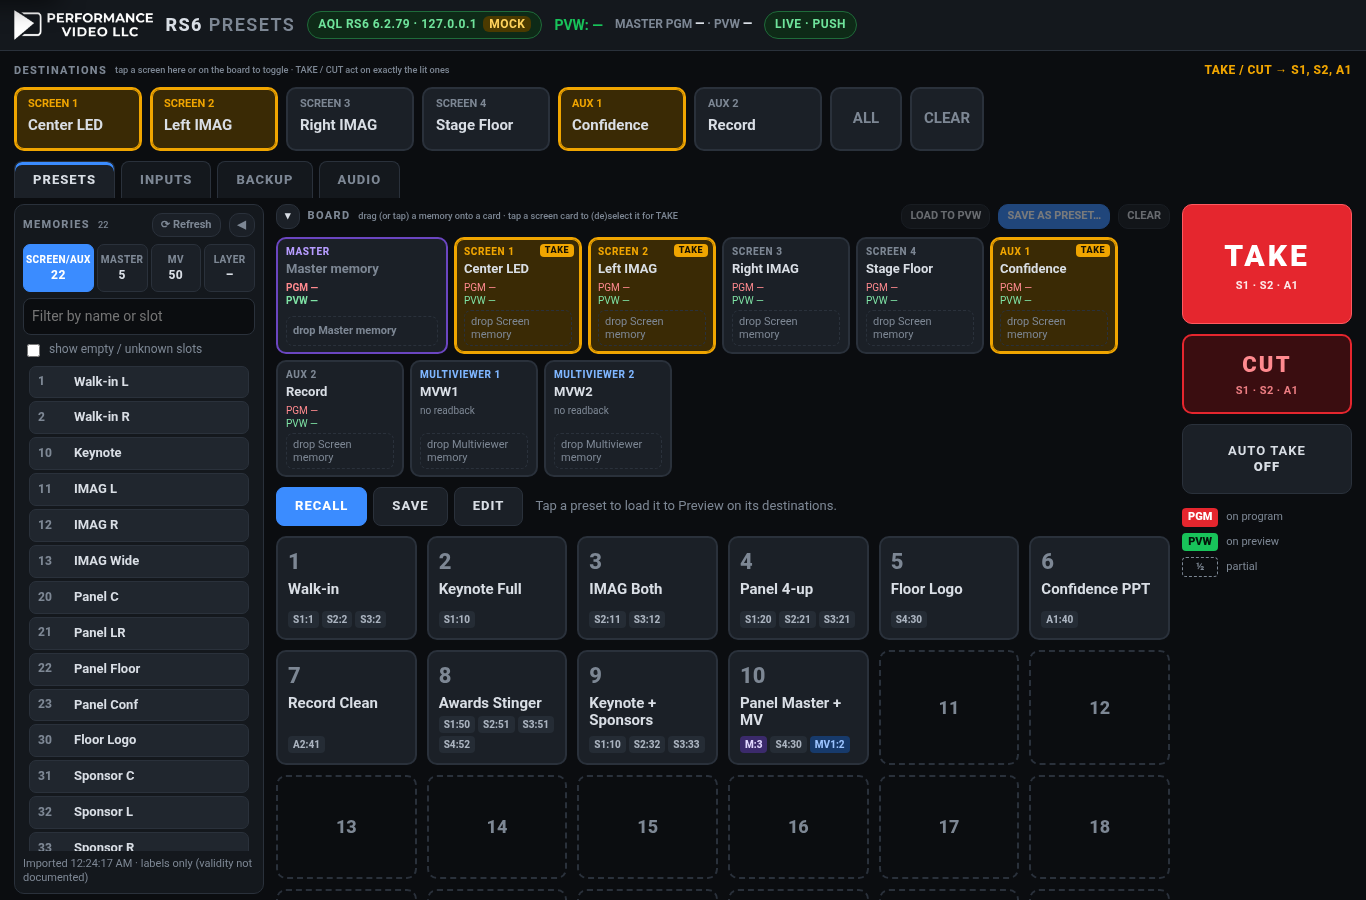
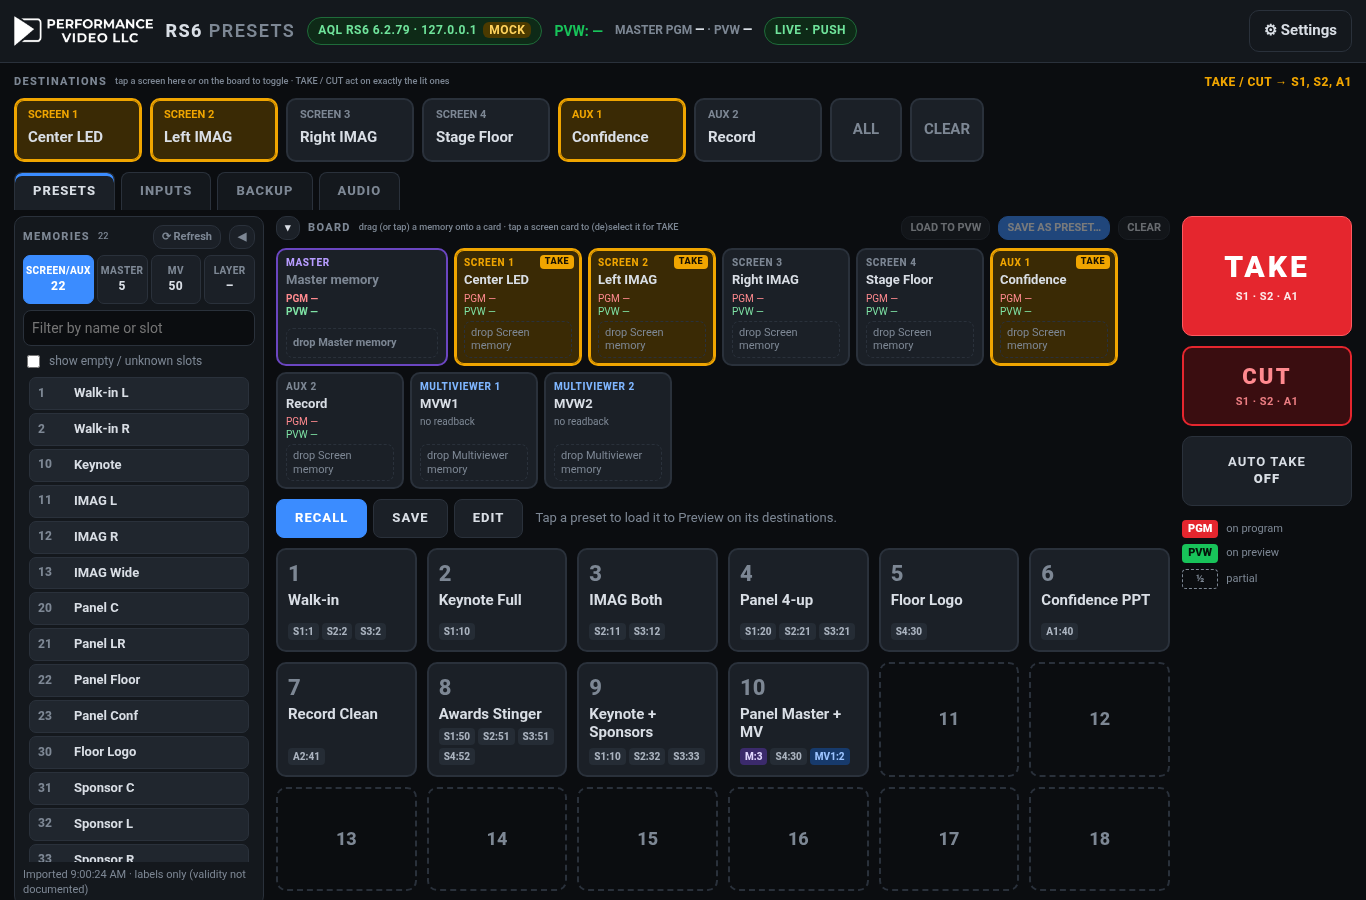
v0.3.2: Settings button visible again (drag-preview .ghost rule hid every 'btn ghost' button), header keeps Settings on row 1, UI regression test

diff --git a/test/ui.test.js b/test/ui.test.js
@@ -1,0 +1,86 @@
+'use strict';
+// 0.3.2 regression: "there is no Settings icon". In 0.3.0/0.3.1 the drag-preview rule `.ghost{position:fixed;
+// transform:translate(-50%,-130%);pointer-events:none}` also matched every `btn ghost` button (the header
+// Settings button and the dialogs' Cancel/Close), which put them off-screen above the top-left corner.
+const test = require('node:test');
+const assert = require('node:assert/strict');
+const fs = require('fs');
+const os = require('os');
+const path = require('path');
+const http = require('http');
+const { spawn } = require('child_process');
+
+const PUB = path.join(__dirname, '..', 'public');
+const css = fs.readFileSync(path.join(PUB, 'style.css'), 'utf8').replace(/\/\*[\s\S]*?\*\//g, '');
+const html = fs.readFileSync(path.join(PUB, 'index.html'), 'utf8');
+
+function rules(src) { // flat rules incl. those inside @media
+  const out = []; const re = /([^{}]+)\{([^{}]*)\}/g; let m;
+  while ((m = re.exec(src))) out.push({ sel: m[1].replace(/@media[^{]*\{?/g, '').trim(), body: m[2] });
+  return out;
+}
+
+test('no position:fixed rule can match a <button> by one of its classes (static check)', () => {
+  const btnClasses = new Set();
+  for (const m of html.matchAll(/<button\b[^>]*class="([^"]*)"/g)) m[1].split(/\s+/).forEach((c) => c && btnClasses.add(c));
+  assert.ok(btnClasses.has('ghost'), 'fixture: buttons use the ghost class');
+  for (const r of rules(css)) {
+    if (!/position\s*:\s*fixed/.test(r.body)) continue;
+    for (const sel of r.sel.split(',')) {
+      const last = sel.trim().split(/[\s>+~]+/).pop(); // the compound selector that picks the element
+      if (/^(button|\*)?\./.test(last) && !/^[a-z]/i.test(last.replace(/^button/, ''))) {
+        const classes = [...last.matchAll(/\.([\w-]+)/g)].map((x) => x[1]);
+        if (/^button/.test(last) || classes.length) {
+          const hitsButton = classes.every((c) => btnClasses.has(c)) && !/[#\[:]/.test(last);
+          assert.ok(!hitsButton, `rule "${sel.trim()}" (position:fixed) would match a <button class="${classes.join(' ')}">`);
+        }
+      }
+    }
+  }
+});
+
+test('Settings button markup and /settings deep link are present', () => {
+  assert.match(html, /<header class="top">[\s\S]*<button id="btnSettings"[^>]*>[^<]*Settings<\/button>[\s\S]*<\/header>/);
+  const app = fs.readFileSync(path.join(PUB, 'app.js'), 'utf8');
+  assert.match(app, /location\.pathname === '\/settings'/);
+});
+
+// Browser check. Uses Playwright when it can be resolved (npm i -g playwright, or NODE_PATH); skipped otherwise,
+// because the app itself has no dependencies.
+let pw = null;
+try { pw = require('playwright'); } catch { pw = null; }
+
+function waitHttp(url, ms = 15000) {
+  const t0 = Date.now();
+  return new Promise((resolve, reject) => {
+    const tryOnce = () => http.get(url, (r) => { r.resume(); resolve(); }).on('error', () => (Date.now() - t0 > ms ? reject(new Error('server did not start')) : setTimeout(tryOnce, 200)));
+    tryOnce();
+  });
+}
+
+test('#btnSettings is visible, clickable and inside the viewport at 820 and 1440 px (Playwright)', { skip: pw ? false : 'playwright not installed' }, async (t) => {
+  const port = 18000 + Math.floor(Math.random() * 1000);
+  const data = fs.mkdtempSync(path.join(os.tmpdir(), 'rs6ui-'));
+  const srv = spawn(process.execPath, [path.join(__dirname, '..', 'server.js'), '--mock', '--port', String(port), '--data', data], { stdio: 'ignore' });
+  t.after(() => { srv.kill(); fs.rmSync(data, { recursive: true, force: true }); });
+  await waitHttp(`http://127.0.0.1:${port}/api/state`);
+  const browser = await pw.chromium.launch();
+  t.after(() => browser.close());
+  for (const width of [820, 1440]) {
+    const page = await browser.newPage({ viewport: { width, height: 900 } });
+    await page.goto(`http://127.0.0.1:${port}/`);
+    const btn = page.locator('#btnSettings');
+    await btn.waitFor({ state: 'visible' });
+    const box = await btn.boundingBox();
+    assert.ok(box && box.x >= 0 && box.y >= 0 && box.x + box.width <= width && box.y + box.height <= 900, `in viewport at ${width}: ${JSON.stringify(box)}`);
+    const top = await page.evaluate(() => { const e = document.querySelector('#btnSettings'); const r = e.getBoundingClientRect(); return document.elementFromPoint(r.x + r.width / 2, r.y + r.height / 2) === e; });
+    assert.ok(top, `not covered at ${width}`);
+    const hdr = await page.locator('header.top').boundingBox();
+    assert.ok(box.y + box.height <= hdr.y + hdr.height + 1, `inside the top bar at ${width}`);
+    await btn.click();
+    await page.locator('#dlgSettings[open]').waitFor();
+    const cancel = await page.locator('#dlgSettings .btn.ghost').boundingBox();
+    assert.ok(cancel && cancel.x >= 0 && cancel.y >= 0, `dialog Cancel on screen at ${width}`);
+    await page.close();
+  }
+});

diff --git a/public/style.css b/public/style.css
@@ -90,7 +90,7 @@ dialog::backdrop{background:rgba(0,0,0,.6)}
 .toast{position:fixed;left:50%;bottom:24px;transform:translateX(-50%);background:#222a33;border:1px solid var(--line);padding:12px 18px;border-radius:10px;font-weight:600;z-index:10;max-width:90vw}
 .toast.err{border-color:var(--danger);color:#ff9b91}
 @media (max-width:820px){
-  .top{gap:8px}.brand{font-size:16px}.last{order:5;width:100%;font-size:13px}
+  .top{gap:8px}.brand{font-size:16px}
   .main{flex-direction:column}
   .transport{width:auto;flex-direction:row;position:sticky;bottom:0;background:var(--bg);padding:8px 0}
   .transport .btn{flex:1;min-height:72px}
@@ -135,7 +135,12 @@ dialog::backdrop{background:rgba(0,0,0,.6)}
 /* ---------- 0.3.0: branding ---------- */
 /* The logo is white on transparent. The UI has no light theme, so it sits straight on the dark header.
    If a light theme is ever added, give .pvlogo a dark backing (background:#0b0d10;padding:3px 6px). */
-.pvlogo{height:30px;width:auto;display:block}
+.pvlogo{height:30px;width:auto;max-width:22vw;object-fit:contain;object-position:left center;display:block;flex:0 1 auto;min-width:0}
+/* 0.3.2: the Settings button is pinned to the end of the first header row at every width; the logo
+   and status items shrink or wrap below it instead. */
+.top>*{min-width:0}
+#btnSettings{flex:none;margin-left:auto;white-space:nowrap;order:4}
+.top .brand,.top .pvlogo,.top #conn{order:1}.top #last,.top #master,.top #liveMode{order:2}.top .spacer{order:3}
 
 /* ---------- 0.3.0: memory palette + board (mix and match) ---------- */
 .mix{display:flex;gap:12px;align-items:flex-start}
@@ -205,7 +210,9 @@ dialog::backdrop{background:rgba(0,0,0,.6)}
 .card.no-target{opacity:.45}
 .card.live-pvw{border-color:var(--pvw)}.card.live-pgm{border-color:var(--pgm)}
 .chip.mst{background:#3b2a6b;color:#e2d8ff}.chip.mvc{background:#173a6b;color:#9cc4ff}
-.ghost{position:fixed;z-index:50;pointer-events:none;padding:8px 12px;border-radius:8px;background:var(--accent);color:#fff;font-weight:800;font-size:13px;box-shadow:0 8px 24px rgba(0,0,0,.5);transform:translate(-50%,-130%);white-space:nowrap}
+/* 0.3.2: was ".ghost", which also matched every "btn ghost" button (Settings, dialog Cancel/Close) and
+   pinned them off-screen. The drag preview has its own class now. */
+.dragghost{position:fixed;z-index:50;pointer-events:none;padding:8px 12px;border-radius:8px;background:var(--accent);color:#fff;font-weight:800;font-size:13px;box-shadow:0 8px 24px rgba(0,0,0,.5);transform:translate(-50%,-130%);white-space:nowrap}
 body.dragging{cursor:grabbing}
 body.dragging *{cursor:grabbing !important}
 .pick{display:grid;grid-template-columns:repeat(auto-fill,minmax(140px,1fr));gap:8px}
@@ -229,3 +236,5 @@ body.dragging *{cursor:grabbing !important}
 .card .xt{position:absolute;top:5px;right:6px;font-size:9px;font-weight:900;letter-spacing:.06em;padding:1px 5px;border-radius:4px;background:var(--sel);color:#1a1300}
 .card[data-seltoggle]{cursor:pointer}
 .btn.take small,.btn.cut small{display:block;font-size:11px;font-weight:700;letter-spacing:.04em;opacity:.9;margin-top:4px;white-space:normal}
+/* 0.3.2: narrow header (iPad portrait and below): Settings stays on row 1; PVW/Master/live wrap to row 2. */
+@media (max-width:820px){.top .pvlogo{height:24px;max-width:30vw}.top #last{order:5;width:100%;font-size:13px}.top #master,.top #liveMode{order:6}}

diff --git a/public/index.html b/public/index.html
@@ -215,7 +215,7 @@
   </form>
 </dialog>
 
-<div id="ghost" class="ghost" hidden></div>
+<div id="ghost" class="dragghost" hidden></div>
 <datalist id="memList"></datalist>
 <div id="toast" class="toast" hidden></div>
 <script src="/app.js"></script>

diff --git a/README.md b/README.md
@@ -215,6 +215,23 @@ dark backing (see the comment in `style.css`).
 
 ---
 
+## v0.3.2: Settings button fix
+
+In 0.3.0 and 0.3.1 the **⚙ Settings** button was missing from the top bar at every width and in
+every browser. It wasn't the layout. The CSS rule for the drag preview (`.ghost`, added in 0.3.0)
+also matched buttons styled `btn ghost`. That pinned the Settings button, and the Cancel/Close
+buttons in the dialogs, just off the top-left corner of the screen, where they couldn't be clicked.
+The drag preview now has its own class (`dragghost`).
+
+The header also got more robust:
+- Settings stays at the end of the first row at every width.
+- The logo shrinks.
+- On iPad portrait (820 px) and narrower, the PVW/Master/live readouts wrap to a second row.
+
+`/settings` still opens the settings directly. `test/ui.test.js` checks the CSS statically. When
+Playwright is available, it also checks that the button is visible and clickable inside the top
+bar at 820 and 1440 px.
+
 ## TAKE, transitions and selection (v0.3.1)
 
 v0.3.0 sent correct TAKE commands, and the device did transition, but the app's tally and memory
@@ -386,7 +403,8 @@ an emulator of the real device.
 
 Run the automated tests (against the mock):
 ```bash
-npm test       # 103 tests
+npm test       # 106 tests; the browser check is skipped unless Playwright is installed
+NODE_PATH=$(npm root -g) npm test   # with `npm i -g playwright && npx playwright install chromium`
 ```
 
 ## HTTP control API (for Companion, Stream Deck, scripts)
